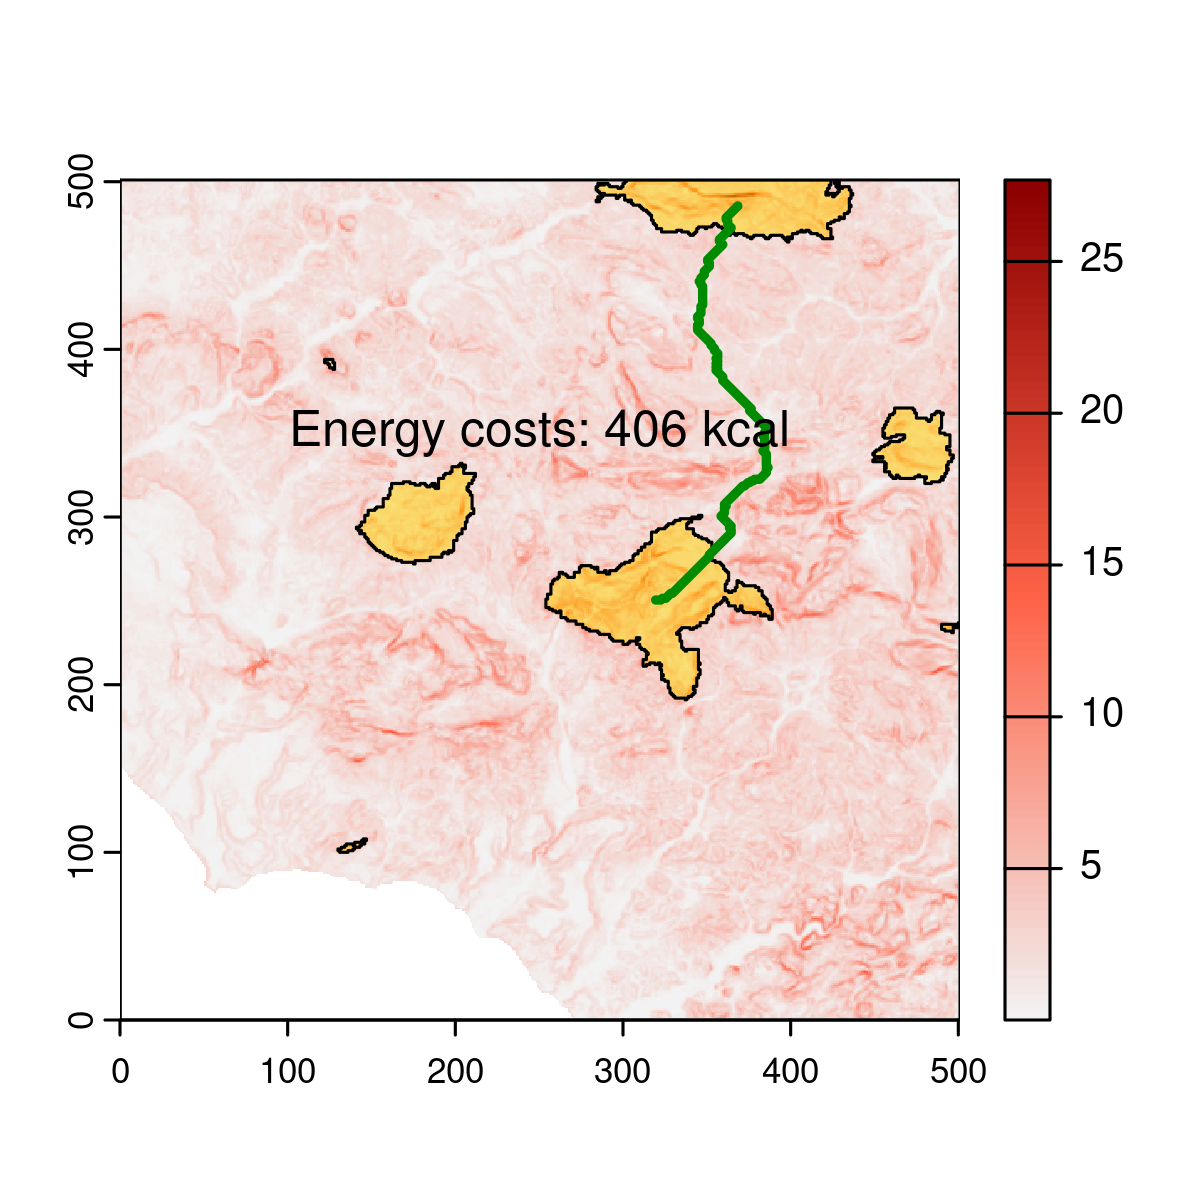
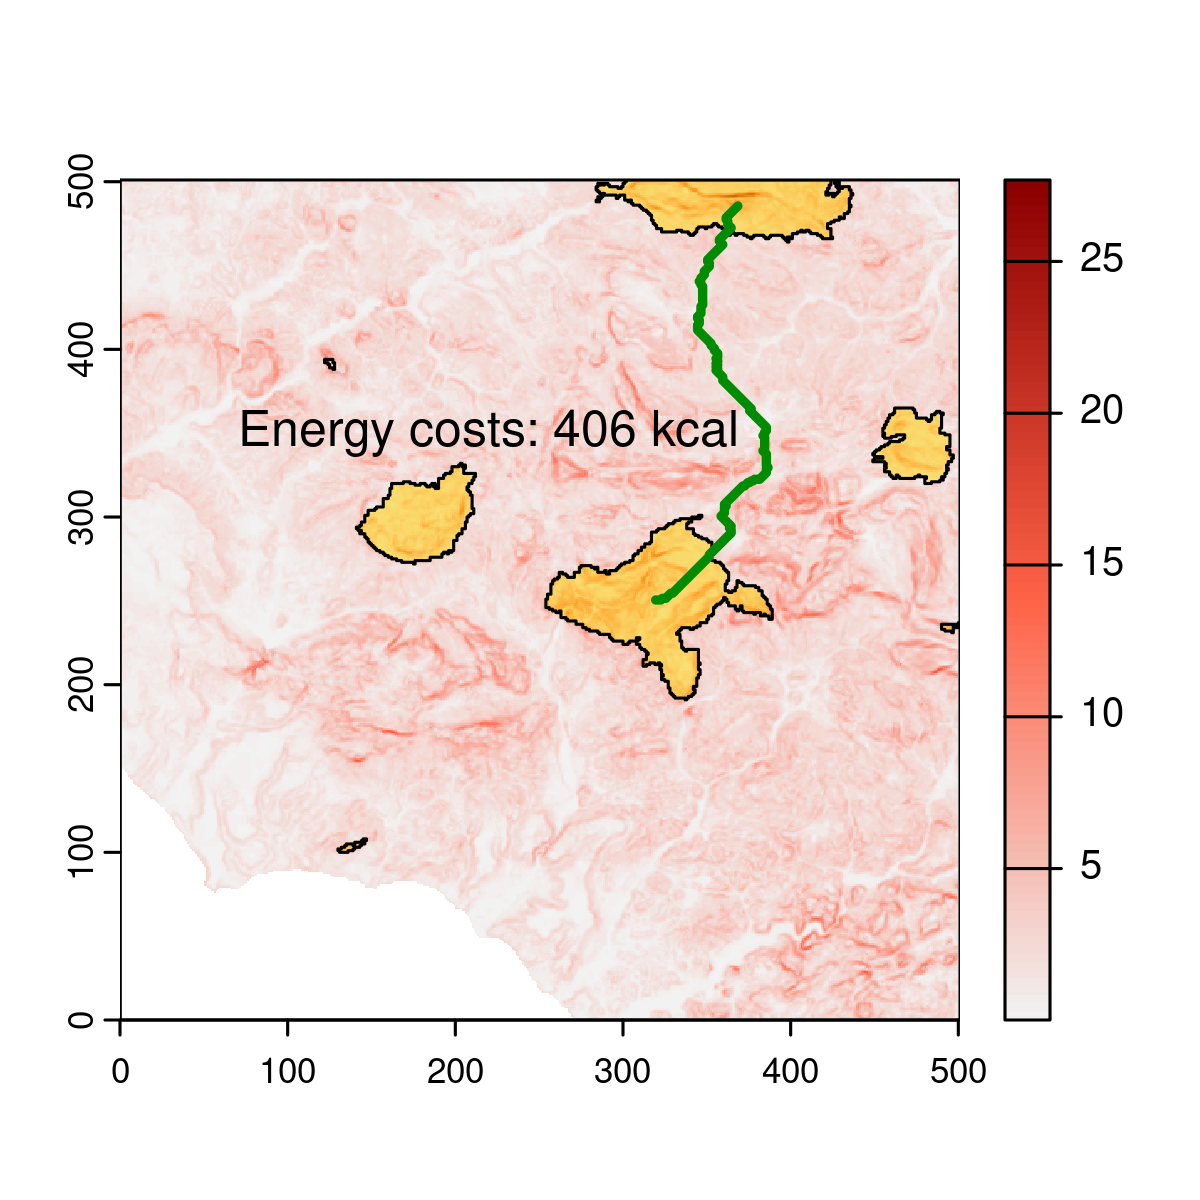
fixing typos

Changed region(s): [[0.185, 0.3392, 0.6783, 0.4008]]

diff --git a/README.md b/README.md
@@ -7,8 +7,12 @@ Emilio Berti
 The R package *parthian* is developed and maintained by Emilio Berti
 (<emilio.berti@idiv.de>). The scope of *parthian* is to quantify the
 importance of areas in the landscape based on energy cost of movement
-for animals. There are several dependencies for *parthian*: - Rcpp -
-igraph - terra - enerscape
+for animals. There are several dependencies for *parthian*:
+
+- Rcpp
+- igraph
+- terra
+- enerscape
 
 They are all stable packages with long history, except for *enerscape*,
 which I developed in 2022 and maintain since then:
@@ -39,9 +43,10 @@ library(parthian)
 
 # Introduction
 
-There are two datasets in *parthian*: - dem: a digital elevation model
-for an area in Sicily, Italy. - pa: the protected areas in the same
-region.
+There are two datasets in *parthian*:
+
+- dem: a digital elevation model for an area in Sicily, Italy.
+- pa: the protected areas in the same region.
 
 These are matrices, as it is easier to store them in an R package. The
 first thing is to transform them into raster.
@@ -139,7 +144,7 @@ plot(en, col = colorRampPalette(c("grey95", "tomato", "darkred"))(100))
 plot(pa, add = TRUE, col = adjustcolor("gold", alpha.f = .5), legend = FALSE)
 lines(as.polygons(pa))
 lines(as.lines(path), lw = 3, col = "green4")
-text(250, 350, paste("Energy costs:", round(total_costs), "kcal"))
+text(220, 350, paste("Energy costs:", round(total_costs), "kcal"))
 ```
 
 <img src="man/figures/README-plot-path-1.png" width="50%" style="display: block; margin: auto;" />
